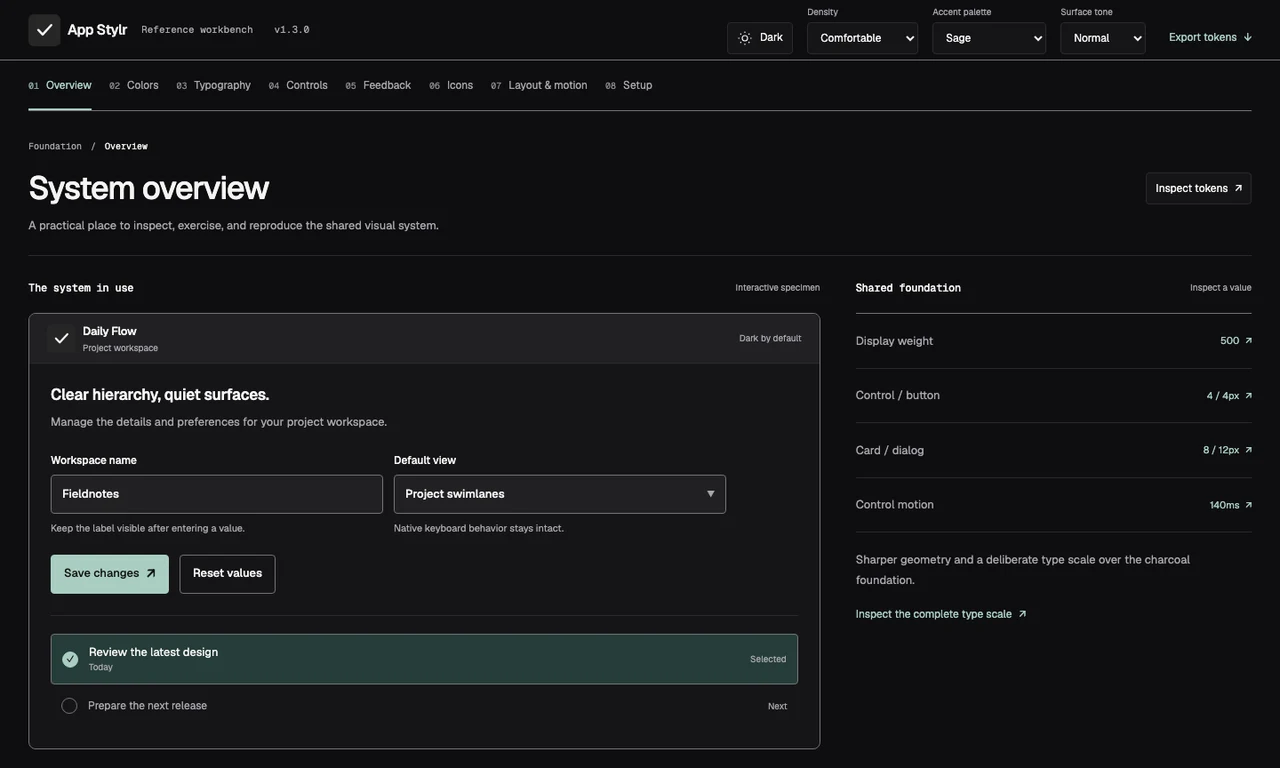
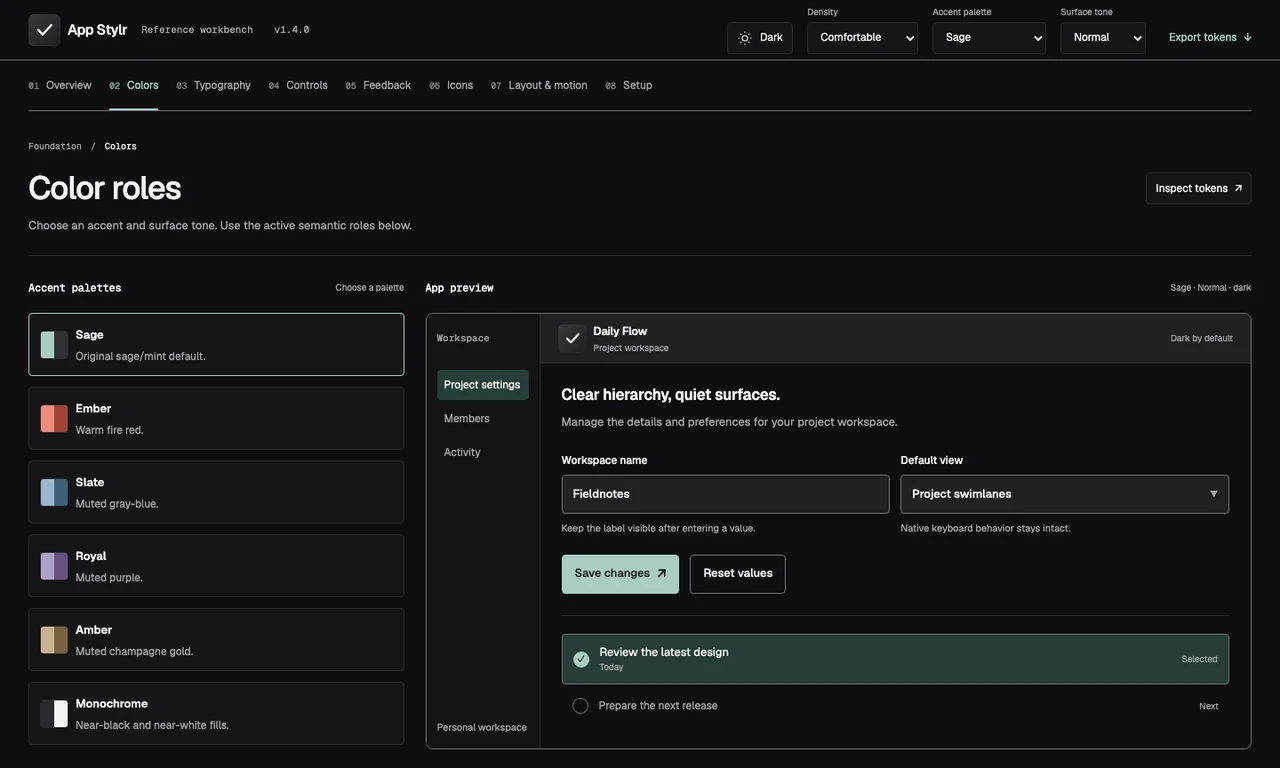
Prepare App Stylr v1.4.0 release

diff --git a/reference/index.html b/reference/index.html
@@ -35,7 +35,7 @@
     <a class="skip-link" href="#main">Skip to specimens</a>
     <header class="workbench-header">
       <a class="brand" href="?section=overview"><img src="../assets/example-app-icon.svg" alt="" width="36" height="36"><span>App Stylr <small>Reference workbench</small></span></a>
-      <span class="version-tag" id="reference-version">v1.3.0</span>
+      <span class="version-tag" id="reference-version">v1.4.0</span>
       <div class="global-controls">
         <button type="button" class="toolbar-button" id="theme-toggle" aria-label="Switch to light theme"><svg viewBox="0 0 24 24" aria-hidden="true"><circle cx="12" cy="12" r="4"/><path d="M12 2v2m0 16v2M2 12h2m16 0h2M5 5l1.5 1.5m11 11L19 19M5 19l1.5-1.5m11-11L19 5"/></svg><span id="theme-label">Dark</span></button>
         <label class="density-control appearance-control"><span>Density</span><select id="density-select"><option value="comfortable">Comfortable</option><option value="compact">Compact</option></select></label>

diff --git a/adapters/swift/AppStylrTokens.swift b/adapters/swift/AppStylrTokens.swift
@@ -3,7 +3,7 @@
 import SwiftUI
 
 public enum AppStylrTokens {
-  public static let version = "1.3.0"
+  public static let version = "1.4.0"
 
   public enum Brand {
     public static let ink = Color(red: 0.066667, green: 0.066667, blue: 0.066667)

diff --git a/adapters/css/app-stylr.css b/adapters/css/app-stylr.css
@@ -1,7 +1,7 @@
 /* Generated from tokens/app-stylr.json by npm run build. Do not edit. */
 
 :root {
-  --app-stylr-version: "1.3.0";
+  --app-stylr-version: "1.4.0";
 
   --brand-ink: #111111;
   --brand-charcoal: #2E3135;

diff --git a/docs/migrations/v1.4.0.md b/docs/migrations/v1.4.0.md
@@ -1,0 +1,29 @@
+# Adopt v1.4.0
+
+This release adds a palette-independent Graphite icon treatment and a live app preview on the Reference's Colors tab. Existing semantic theme roles, accent palettes, surface tones, typography, geometry and supported runtimes are unchanged. If upgrading from before v1.3.0, also follow [the v1.3.0 migration](v1.3.0.md).
+
+## Pin the release
+
+Update the immutable dependency, lockfile and consumer manifest together. Use the public v1.4.0 GitHub tag for CSS/assets/commands and the exact 1.4.0 Swift Package Manager version. Verify the public tag before changing a consumer pin. See [the release process](../releases.md) for channel verification; a source version does not prove publication.
+
+## Graphite icons
+
+The recommended background is a two-stop monochrome gradient from #383838 at the top left to #202020 at the bottom right, with the existing #F5F5F5 foreground. It stays neutral across all interface accents. Preserve each product's identifying glyph, use its 16px drawing when available, regenerate the platform exports, and refresh cached favicon URLs.
+
+Start with [the monochrome base](../../assets/app-icon-monochrome-base.svg). Canonical values live in `icon.monochromeGradient`; generated CSS exposes `--icon-monochrome-gradient`. Swift exposes `AppStylrTokens.Icon.monochromeGradientStops` and `monochromeGradientAngleDegrees`:
+
+```swift
+LinearGradient(
+  stops: AppStylrTokens.Icon.monochromeGradientStops,
+  startPoint: .topLeading,
+  endPoint: .bottomTrailing
+)
+```
+
+The solid base, `icon.background` fallback, and original colored gradient asset/values remain available. No existing token or asset is renamed or repurposed. See [platform icon guidance](../platform-icons.md) for generation and actual-size review.
+
+## Reference hosting
+
+The Colors tab now shows the selected appearance in an interactive project-workspace specimen. Palette cards and global appearance controls drive the same preview; form and row interactions remain local to the specimen. This demonstrates role relationships and responsive behavior, not a required application layout.
+
+Rebuild the portable Reference from the new package and deploy its entire artifact. Root and subpath hosts retain their existing URL and asset behavior. Verify the version manifest, favicon cache key, monochrome-base download and Colors preview at desktop and phone widths.

diff --git a/README.md b/README.md
@@ -14,14 +14,14 @@ Visual Reference with illustrative interface specimens. [App overview](https://k
 
 ## Release channels
 
-The installation examples use the **v1.3.0 GitHub tag** for the CSS, assets, command-line tools, and Swift package. They do not require publication to the npm registry. See the [release process](./docs/releases.md) for channel verification and publication.
+The installation examples use the **v1.4.0 GitHub tag** for the CSS, assets, command-line tools, and Swift package. They do not require publication to the npm registry. See the [release process](./docs/releases.md) for channel verification and publication.
 
 ## Quick start
 
 Requires Node.js 20 or newer for the command-line tools.
 
 ```sh
-npm install "github:kylbutlr/app-stylr#v1.3.0"
+npm install "github:kylbutlr/app-stylr#v1.4.0"
 ```
 
 Import the fonts and tokens once in your application stylesheet:
@@ -53,7 +53,7 @@ Bundle the CSS and fonts with your extension. Use a Shadow DOM root for injected
 
 ### Swift and SwiftUI
 
-Add `https://github.com/kylbutlr/app-stylr` in Swift Package Manager using the exact version `1.3.0`, then add the `AppStylr` product to your target.
+Add `https://github.com/kylbutlr/app-stylr` in Swift Package Manager using the exact version `1.4.0`, then add the `AppStylr` product to your target.
 
 ```swift
 import AppStylr
@@ -124,7 +124,7 @@ The package also provides `app-stylr-reference` for portable reference builds, `
 
 - [Design practice](./docs/design-practice.md) and [conventions](./docs/conventions.md)
 - [Compatibility and upgrades](./docs/compatibility.md)
-- [v1.3.0 migration](./docs/migrations/v1.3.0.md) and [changelog](./CHANGELOG.md)
+- [v1.4.0 migration](./docs/migrations/v1.4.0.md) and [changelog](./CHANGELOG.md)
 - [Browser extensions](./docs/browser-extensions.md) and [platform icons](./docs/platform-icons.md)
 - [Public README guidelines](./docs/public-readmes.md) and [template](./templates/public-product-readme.md)
 - [Game Interface profile](./docs/games.md), [Balanced motion](./docs/balanced-motion.md), and [macOS release checks](./docs/macos-sparkle.md)

diff --git a/docs/releases.md b/docs/releases.md
@@ -12,7 +12,7 @@ All channels use the same semantic version. A Git tag alone does not prove npm p
 
 ## Versioned installation
 
-The README, Reference, consumer template, schema ID, and consumer instructions target the `v1.3.0` GitHub tag. These links become usable only when that tag is public. Verify an empty-directory Git install and a clean Swift consumer against the public tag before declaring this channel released. Do not infer npm publication from source version numbers or GitHub tags.
+The README, Reference, consumer template, schema ID, and consumer instructions target the `v1.4.0` GitHub tag. These links become usable only when that tag is public. Verify an empty-directory Git install and a clean Swift consumer against the public tag before declaring this channel released. Do not infer npm publication from source version numbers or GitHub tags.
 
 When restoring an existing release after repository-history consolidation, tag the preserved release contents without making removed history reachable again. New releases tag their reviewed merge commit. Consumers pinned to an old commit must migrate to the surviving tag before their next install or build.
 

diff --git a/templates/consumer-agents.md b/templates/consumer-agents.md
@@ -1,6 +1,6 @@
 ## App Stylr
 
-This application follows the [App Stylr v1.3.0](https://github.com/kylbutlr/app-stylr/tree/v1.3.0).
+This application follows the [App Stylr v1.4.0](https://github.com/kylbutlr/app-stylr/tree/v1.4.0).
 
 ### Required compatibility contract
 

diff --git a/CHANGELOG.md b/CHANGELOG.md
@@ -2,7 +2,7 @@
 
 All notable public changes to App Stylr are documented here. The project follows [Semantic Versioning](https://semver.org/).
 
-## [Unreleased]
+## [1.4.0] - 2026-11-05
 
 ### Added
 
